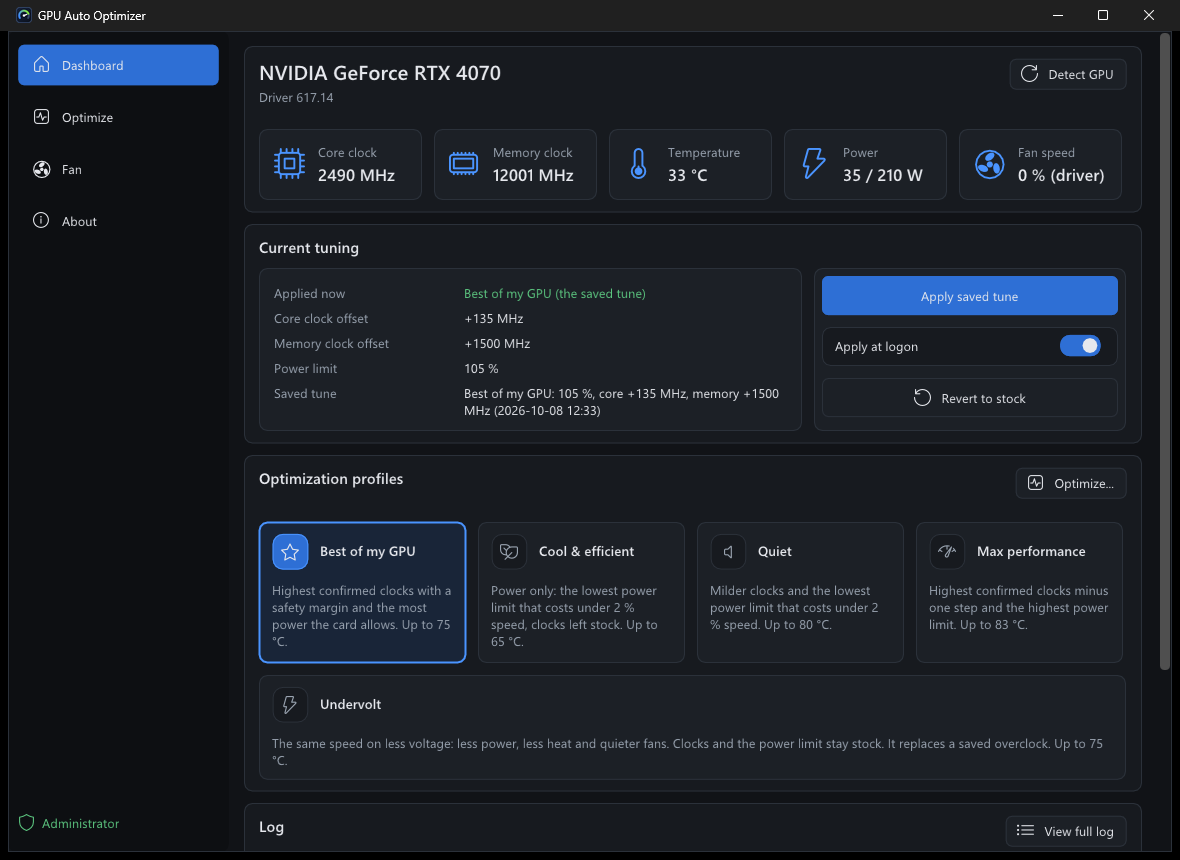
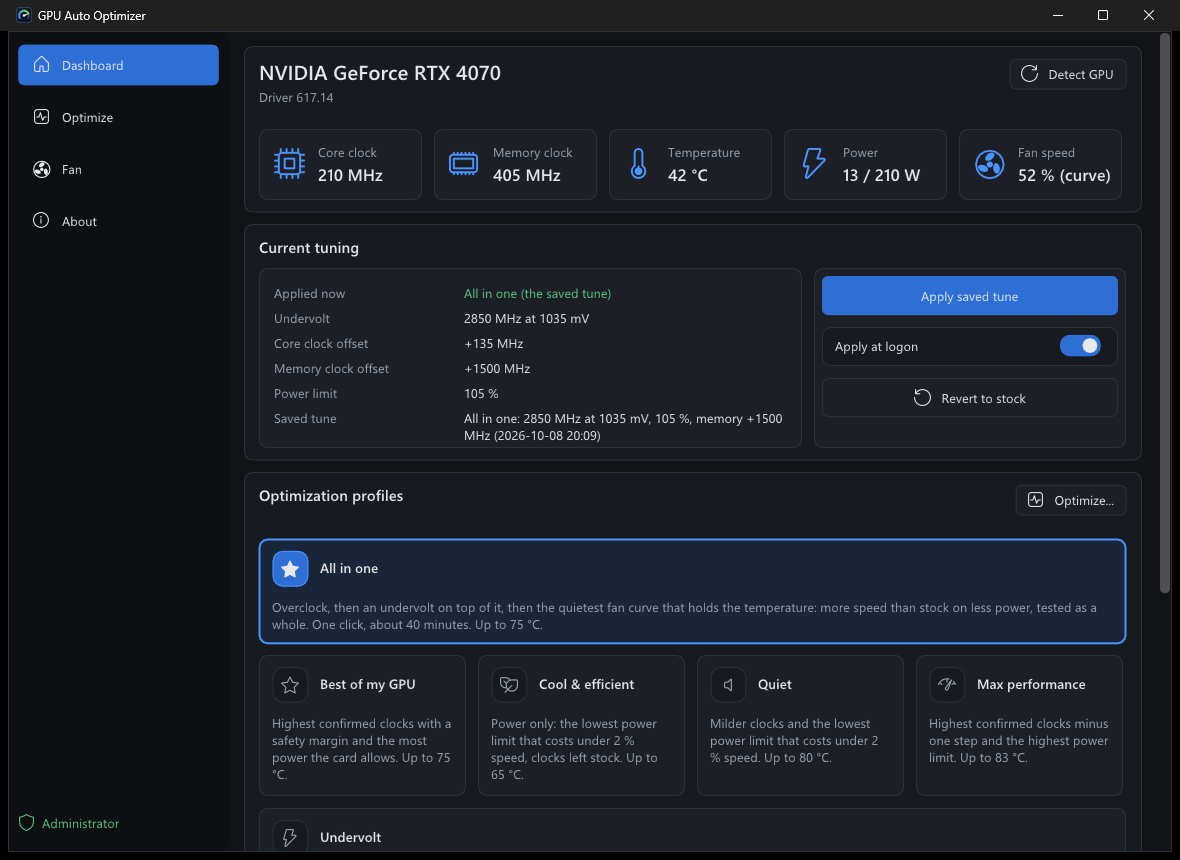
docs: All in one from the window, with clean numbers, in the README and as hardware check 76
A run from the window with nothing else on the card (no process above
0.5 % of its 3D engine), 34 minutes: core +135 MHz, memory +1500 MHz,
power limit 105 %, the overclock's curve cut off at 2850 MHz and 1035 mV,
fans 52 % at 70 C. Five minutes at stock against five minutes with it:
5728 and 5820 it/s (+1.6 %), 196 and 180 W (-8.2 %), fan speed 73 and
62 %, 67 and 71 C (the fan tune aims for 70 C; with the driver's own fan
curve the same settings ran at 63 C on 176 W).

README: a third result section for All in one with the result screen, the
table and a picture of the run, and why its gains are smaller than those of
the overclock and the undervolt alone: the two are ends of one line and
this is the middle. The dashboard picture shows the result applied.

diff --git a/docs/hardware-checks.md b/docs/hardware-checks.md
@@ -15,7 +15,7 @@ elevation either: the stress load only computes, it writes no settings.
 Checks 13-16 run `--optimize`, which writes clocks and the power limit: elevated.
 Checks 46-52 run `--optimize` as well and need an elevated shell; check 45 compares `--probe` with another tool.
 Checks 54-56 exercise the window after its display device went away; 54 and 55 change no GPU setting, 56 does run a search (from the window, elevated), which writes clocks and the power limit.
-Checks 62-72 write the voltage/frequency curve (all but 61, which only reads it) and need an elevated shell; 68 forces two driver resets, 69 to 71 run the undervolt search from the window, and 72 compares two shapes of the flat top under load.
+Checks 62-72 write the voltage/frequency curve (all but 61, which only reads it) and need an elevated shell; 68 forces two driver resets, 69 to 71 run the undervolt search from the window, and 72 compares two shapes of the flat top under load. Checks 73 to 76 are about an overclock and an undervolt together: 75 and 76 run All in one, about 35 minutes of full load each.
 Checks 17-22 cover persistence; 19 and 20 need a log-off and log-on.
 
 Commands assume a Release build at `.\build\Release\gao.exe` from the repo
@@ -103,6 +103,7 @@ root; adjust the path for a Debug build.
 | 73 | A flat top over a core offset | Tray app exited, elevated. (A) `gao --reset`, `gao --set-core 135`, `gao --curve`, `gao --stress 150`. (B) `gao --reset`, `gao --curve-flatten <mV> <MHz> 45 135` with <MHz> the clock (A) settled on and <mV> a few curve points below where the offset curve reaches it; `gao --curve`, `gao --status`, `gao --stress 150`, `gao --curve`. (C) a `gao.json` whose profile has `core_mhz` 135 and an `undervolt` object for that point: `gao --apply`, `gao --status`, `gao --curve`; `gao --apply` again; `gao --set-core 135` and `gao --apply`; `gao --reset` | yes | to be observed and recorded: whether the card takes a flat top on top of a core offset and runs it. (B) `flat top applied ... -- OK`; the points below the anchor keep raw 135000, the anchor carries more, the points above less than the anchor; `applied:` still reports core +135 MHz; the stress run is `STABLE` at the clock of (A), or one step below it once warm, on clearly less power. (C) `applied ...`, `undervolt:  applied`, the same curve as in (B) each time; after the reset every raw offset 0 | Pass (2026-10-08, reference RTX 4070, driver 617.14, a build of c07677f with the first step of the branch `all-in-one`, elevated, tray app exited, driven by a script; power limit 100 %, memory at stock). (A) Raw 135000 on all 127 points. 150 s: 2955 MHz in the first seconds, 2925 MHz to 61 C, 2895 MHz from 63 C on, 196 to 199 W of 200 (the card sits on its power limit), peak 67 C, `STABLE`, 5965 it/s. The offset curve reaches 2895 MHz at 1050 mV. (B) `gao --curve-flatten 1015 2895 45 135`: `flat top applied: slot 90 runs 2895 MHz, in 2 write rounds -- OK`. The curve: raw 135000 from 450 mV up to 1010 mV, 210000 at 1015 mV (2895.0 MHz: 210 MHz over the built-in curve), 165000 and falling above it down to -45000 at 1240 mV, every point from 1015 mV up reading 2895.0 MHz. `gao --status`: `applied: power 100 %, core +135 MHz, mem +0 MHz`: the offset read-out keeps reporting the core offset under the flat top. 150 s: 2880 MHz throughout, 166 to 172 W, peak 62 C, `STABLE`, 5922 it/s (5950 once running); the curve then read 2880.0 MHz on the top. Against (A): 27 W less (13.5 %) and 5 C cooler for one clock step. Against stock (check 72: 195 W, 5732 it/s): 12 % less power at 3.8 % more score. (C) `gao --apply`: `applied best: 2895 MHz at 1015 mV, power 100 %, core +135 MHz, mem +0 MHz ...`, `OK`; `undervolt:  applied`; 124 of 127 raw offsets other than 0, 135000 at 450 mV, no point above 2895 MHz. The same after a second `gao --apply`. `gao --set-core 135` over it left 135000 on every point (an offset write of the value the driver already reports does rewrite the table here), and `gao --apply` put the flat top back. `gao --reset`: every raw offset 0. |
 | 74 | The undervolt searched on top of the saved overclock | Tray app exited, elevated, with a saved overclock in `gao.json` (here `best: power 105 %, core +135 MHz, mem +1500 MHz`): `gao --undervolt --on-overclock` to the end; `gao --status`, `gao --curve`, `gao --stress 150` | yes | the log starts `on top of the saved tune: ...` and `baseline: 300 s with the overclock`; `target: N MHz, which the card reaches at V mV with the overclock`; candidates one point lower each, named by their raise over the built-in curve (the core offset included), until one fails; `confirm`, `undervolt: ...`, `soak ...: STABLE`; `RESULT:`, `Saved:`; the profile keeps its power limit and offsets and gains the `undervolt` object; `applied:` keeps reporting the core offset; the points below the anchor keep the core offset as their raw offset. To be measured: how much an undervolt adds to an overclock that already carries the safety margin | Pass, and little gained (2026-10-08, reference RTX 4070, driver 617.14, a build of e292768 with the second step of the branch `all-in-one`, elevated, tray app exited, driven by a script). `on top of the saved tune: power 105 %, core +135 MHz, mem +1500 MHz`; `baseline: 300 s with the overclock`, `STABLE  score=5900 it/s  clock=2906 MHz  peak=68 C  power=201 W`; `target: 2910 MHz, which the card reaches at 1085 mV with the overclock`; ten candidates from `1075 mV (+150 MHz)` to `1020 mV (+240 MHz)` `STABLE`, the power falling from 174 to 150 W; `1015 mV (+255 MHz): WRONG RESULT`; `confirm 1020 mV (+240 MHz): WRONG RESULT`; `confirm 1025 mV (+225 MHz): STABLE`; `undervolt: lowest stable 1020 mV, confirmed 1025 mV, applying 1075 mV (+150 MHz at that point)`; `soak 1075 mV (+150 MHz): STABLE  score=5885 it/s  clock=2895 MHz  peak=67 C  power=196 W`; `RESULT: 2910 MHz at 1075 mV instead of 1085 mV`; `before: ... peak=68 C  fan=73 %  power=201 W  (300 s)`, `after: ... peak=67 C  fan=72 %  power=196 W  (300 s)`; `Saved: ...`, exit 0, 12 minutes. `gao --status`: `profile: best: 2910 MHz at 1075 mV, power 105 %, core +135 MHz, mem +1500 MHz ...`, `applied: power 105 %, core +135 MHz, mem +1500 MHz`. `gao --stress 150`: `STABLE`, 2895 MHz, 192 to 195 W of 210, peak 66 C. What it shows: 5 W of 201. With the margin of 70 % on the raise that held 30 s (225 MHz over the built-in curve) 150 MHz is left, and the overclock is 135 of it. An overclock already is an undervolt at every frequency: the whole curve runs more clock on the same voltage. The two are ends of one line, not gains that add up. (Without the margin, in check 73, the same clock ran at 1015 mV on 172 W: that point is 210 MHz over the built-in curve, one step inside what failed here.) One thing was wrong: the anchor at 1075 mV already ran the target with the core offset alone when the soak wrote it (its raw offset stayed 135000; only the points above were lowered), and `gao --status` said `undervolt:  not applied (the curve carries other offsets)`. `curve_state` now counts a flat top whose anchor needed no raise of its own (unit test; not run on the card again). |
 | 75 | All in one, from the command line | Tray app exited, elevated, other programs that use the graphics card closed: `gao --optimize all` to the end; `gao --status`, `gao --curve`; then `gao --stress 150` | yes | five steps in the log: `step 1 of 5: the card at stock, five minutes` with a `stock:` line; `step 2 of 5: the overclock` and the log of an optimize run; `step 3 of 5: the undervolt on top of it, at a clock between stock and the overclock` with `baseline: the overclock's own run: ...` (nothing measured twice) and a target half-way between the stock clock and the overclock's; `step 4 of 5 ...`: `fan N %: T C` lines going down until one is too warm or the fans' minimum is reached, `fan tune: N % holds T C`, `final test: 300 s with everything applied`; `RESULT: power ..., core ..., mem ..., N MHz at A mV, fans N % at T C`, a `stock:` and a `now:` line of 300 s each and `that is +x % score and -y % power against stock`; `Saved: ...`; exit 0. The profile has the preset `all`, the overclock, the `undervolt` object and the tuned `fan_curve`; `undervolt:  applied` | Pass for the run, not for its numbers (2026-10-08, reference RTX 4070, driver 617.14, a build of 339c256 with the fourth step of the branch `all-in-one`, elevated, tray app exited, driven by a script; 32 minutes). Step 1: `stock: STABLE  score=5641 it/s  clock=2790 MHz  peak=67 C  fan=72 %  power=194 W`. Step 2: `mem: bandwidth peak +2300, confirmed +2300, applying +1600`; `core +225 / mem +1600: WRONG RESULT`, `confirm core +195 / mem +1600: STABLE`, `core: highest stable +210, confirmed +195, applying +135`; `soak: STABLE  score=5887 it/s  peak=70 C  power=200 W`. Step 3: `baseline: the overclock's own run: STABLE  score=5887 it/s  clock=2897 MHz ...`; `target: 2850 MHz, which the card reaches at 1035 mV with the overclock` (half-way between 2790 and 2897 is 2843; the curve's point under it); `1025 mV (+150 MHz): SLOW  score=5393 it/s  clock=2380 MHz` (the one candidate below: the card took the curve and did not run it in those 3 s; not explained); `confirm 1035 mV (+135 MHz): STABLE`; `undervolt: lowest stable 1035 mV, confirmed 1035 mV, applying 1035 mV (+135 MHz at that point)`: the overclock's curve cut off at 2850 MHz, no point raised further; `soak 1035 mV (+135 MHz): STABLE  score=5725 it/s  clock=2835 MHz  peak=63 C  power=172 W`. Step 4: `fan tune: the lowest fan speed that keeps the card at 70 C under this load, from 70 %`; `fan 70 %: 58 C`, `65 %: 59 C`, `60 %: 61 C`, `55 %: 65 C`, `52 %: 67 C` (52 % is the minimum this card's fans hold); `fan tune: 52 % holds 67 C`. Step 5 and the result: `RESULT: power 105 %, core +135 MHz, mem +1600 MHz, 2850 MHz at 1035 mV, fans 52 % at 67 C`; `stock: score=5641 it/s  core=2790 MHz  mem=10493 MHz  peak=67 C  fan=72 %  power=194 W  (300 s)`; `now: score=5365 it/s  core=2834 MHz  mem=12100 MHz  peak=72 C  fan=52 %  power=173 W  (300 s)`; `that is -4.9 % score and -10.8 % power against stock`; `Saved`, exit 0. `gao --status`: `profile: all: 2850 MHz at 1035 mV, power 105 %, core +135 MHz, mem +1600 MHz ...`, `undervolt:  applied`. The score of the final test is not the tune's. Stress runs right after it, same settings: 5370 it/s at 61 C with the driver's fans, 5422 it/s at 71 C with the app driving the tuned curve, 5412 it/s again with the driver's fans: the same low score whatever the fans did, with seconds at 5700 to 5800 in between. Windows showed `qemu-system-x86_64-headless` (an emulator the owner had started) on 11 % of the card's 3D engine. Step 3's soak, minutes before it, is the clean number for these settings: 5725 it/s at 2835 MHz and 172 W against 5641 it/s at 2790 MHz and 194 W at stock, 1.5 % more score on 11 % less power. The run now says so itself when the final test scores more than 3 % under the soak before it at the same clock (`not clean: ...`), and the Optimize page asks to close other programs first. Two more things it showed. The final test ran with the fans standing at 52 %: the curve driver took the speed the tune had left for another program's and stepped aside (fixed: it now starts from driver control; seen in the stress run with the app, 71 C). And 52 % read 67 C when the tune judged it and 72 C five minutes later, above the 70 C it aims for: a speed is now given four looks instead of three before it counts as settled (unit test; not on the card yet). Still to do: the run from the window, and a run with nothing else on the card for numbers that compare. |
+| 76 | All in one, from the window, with nothing else on the card | Close every program that uses the graphics card (check with Task Manager's GPU column, or `Get-Counter '\GPU Engine(*engtype_3D)\Utilization Percentage'`); exit the tray app; start this build's `GpuAutoOptimizer.exe` elevated. Optimize page: **All in one** is selected; press **Optimize GPU** and let the run end. Then the result screen, the dashboard and `gao --status` | yes | the Optimize page shows the card **All in one** first, selected, `About 40 minutes of full GPU load.` and the line that asks to close other programs; the run screen is titled **Optimizing: All in one**, the probe list names the five steps, and a line with the time left and a bar shows during the stock measurement, the soaks, every fan speed and the final test; the curve picture shows the overclock above the card's own curve and, from step 3 on, cut off flat; the result screen says what was applied and what the fans do, has no note about a disturbed final test, and its table compares five minutes at stock with five minutes now: more score, less power, a lower fan speed; `Saved.`; the dashboard shows `Applied now: All in one (the saved tune)` | Pass (2026-10-08, reference RTX 4070, driver 617.14, build dd2b84a, started elevated by a script that took pictures of the window and clicked in it; before the start no process was above 0.5 % on the card's 3D engine; 34 minutes). Optimize page: as expected. Run screen, 25 s in: `step 1 of 5: the card at stock, five minutes`, **Measuring the card at stock**, `4:38 left of 5 min`, 2805 MHz, 60 C, 194 W. Nine minutes in: the memory scan of step 2 (`core +0 / mem +1750: STABLE`). During step 3: `on top of the saved tune: power 105 %, core +135 MHz, mem +1500 MHz`, `baseline: the overclock's own run: STABLE  score=5945 it/s  clock=2897 MHz  peak=70 C  power=200 W`, `target: 2850 MHz, which the card reaches at 1035 mV with the overclock`; **Soak: the result has to hold**, `1:21 left of 5 min`; the curve picture with the written curve above the card's own up to 1035 mV and flat from there, `Now: 2850 MHz, which this curve reaches at 1035 mV`, 62 C, 176 W; then `undervolt: lowest stable 1035 mV, confirmed 1035 mV, applying 1035 mV (+135 MHz at that point)` and `soak 1035 mV (+135 MHz): STABLE  score=5847 it/s  clock=2850 MHz  peak=63 C  power=176 W`: again the overclock's curve cut off, no point raised further. Step 4: `fan tune: the lowest fan speed that keeps the card at 70 C under this load, from 70 %`, `fan 70 %: 60 C`; **Fan speed 60 %: waiting for the temperature to settle**, `2:27 left of 3 min`; at 52 % the card read 70 C on 180 W. Result screen: `Applied: core +135 MHz, memory +1500 MHz, power limit 105 %, 2850 MHz at 1035 mV`; `Fans: 52 % keeps the card at 70 C under full load; the fan curve goes through that point.`; headers `Before (stock, 5 min)` and `After (5 min)`; score 5728 and 5820 it/s (+1.6 %), core clock 2789 and 2835 MHz, memory clock 10495 and 12000 MHz, peak temperature 67 and 71 C, fan speed at the end 73 and 62 %, power 196 and 180 W (-8.2 %); no note; `Saved. ...`; the curve as the run left it. `gao --status`: `profile: all: 2850 MHz at 1035 mV, power 105 %, core +135 MHz, mem +1500 MHz (..., saved 2026-10-08 20:09)`, `undervolt:  applied`. Dashboard: `Applied now: All in one (the saved tune)`, `Undervolt  2850 MHz at 1035 mV`, core +135 MHz, memory +1500 MHz, power limit 105 %; the fan tile `52 % (curve)`. What the numbers say: the same settings drew 176 W at 63 C with the driver's fans at about 68 % (step 3) and 180 W at 71 C with the tuned curve at 62 %: the quieter fans cost 4 W and 8 C, by choice (the tune aims for 70 C). The fan tile read `(driver)` while the run was setting the speeds by hand (the label only knows the app's own curve driver; not changed). Not seen: the note for a disturbed final test (there was none to give), and an abort from the window during this run. |
 
 ## Notes
 

diff --git a/README.md b/README.md
@@ -79,6 +79,36 @@ Both columns are five minutes of full load, so the card is heated through on bot
 > [!NOTE]
 > An undervolt is saved in place of an overclock, not next to it, so this is the other choice, not an extra. Every card has its own limits. The log of this run is in [docs/hardware-checks.md](docs/hardware-checks.md) (check 72).
 
+## Or everything in one click: All in one
+
+<div align="center">
+
+<img src="docs/images/all-in-one-result.png" width="860" alt="The result screen of an All in one run on the reference RTX 4070: core +135 MHz, memory +1500 MHz, power limit 105 %, 2850 MHz at 1035 mV, fans 52 % at 70 °C; score 5728 to 5820 iterations per second, power 196 to 180 watts, fan speed 73 to 62 percent">
+
+</div>
+
+**All in one** is the default: it overclocks, undervolts on top of that, measures the quietest fan curve and tests the whole for five minutes. One run on the reference card, both columns five minutes of full load:
+
+| | Stock | After one click |
+|---|---|---|
+| Stress-test score | 5728 it/s | **5820 it/s (+1.6 %)** |
+| Power under load | 196 W | **180 W (−8.2 %)** |
+| Fan speed | 73 % | **62 %** |
+| Temperature | 67 °C | 71 °C |
+| Core clock under load | 2789 MHz | 2835 MHz |
+| Memory clock under load | 10495 MHz | 12000 MHz |
+
+A little faster, on less power, with slower fans. The card is warmer because the fans are allowed to be: the fan tune aims for 70 °C, 5 °C under the profile's limit, and found that 52 % holds it. With the NVIDIA driver's own fan curve the same settings ran at 63 °C on 176 W. The run took 34 minutes.
+
+The gains are smaller than those of the two sections above, and that is the point of it. An overclock and an undervolt do not add up: an overclock moves the whole voltage/frequency curve, so at every clock the card already runs on less voltage, and with the same safety margin there is nothing left to take off. They are two ends of one line. All in one takes the middle, where the card beats stock on both counts; **Best of my GPU** and **Undervolt** are the ends.
+
+<div align="center">
+<img src="docs/images/all-in-one-run.png" width="860" alt="An All in one run in its third step: the overclock's curve above the card's own, cut off flat at 2850 MHz, with the countdown of the soak above it">
+</div>
+
+> [!NOTE]
+> Close games and other programs that use the graphics card before a run. In an earlier run an emulator on 11 % of the card cost 6 % of the score; the run now says so when its final test does not match the step before it. The logs are in [docs/hardware-checks.md](docs/hardware-checks.md) (checks 75 and 76).
+
 ## Quick start
 
 1. Download `GpuAutoOptimizer-<version>-win-x64.zip` from the [latest release](https://github.com/Rovey/gpu-auto-optimizer/releases/latest) and unzip it anywhere.
